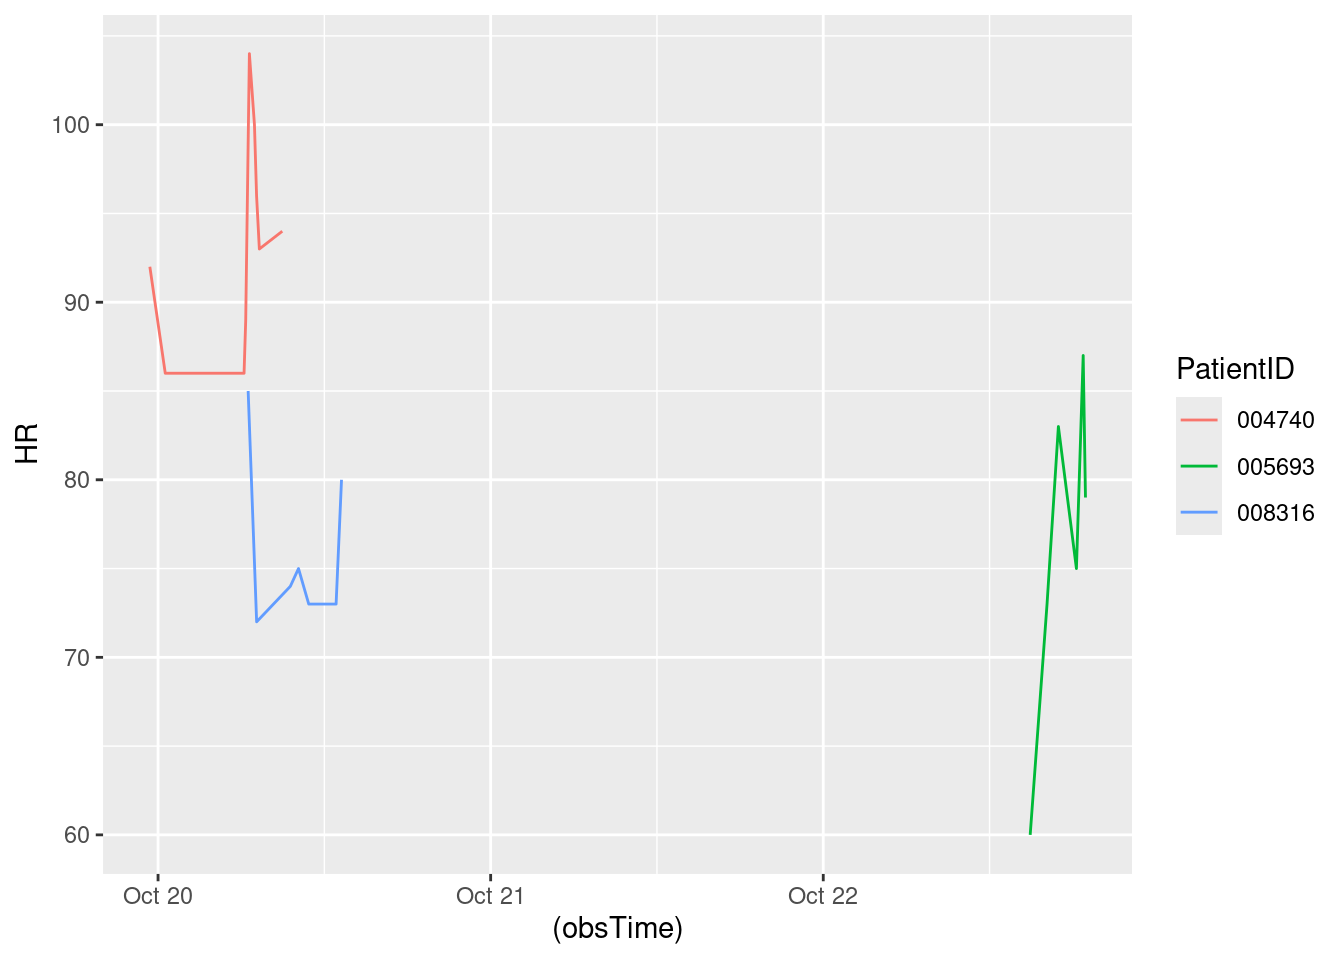
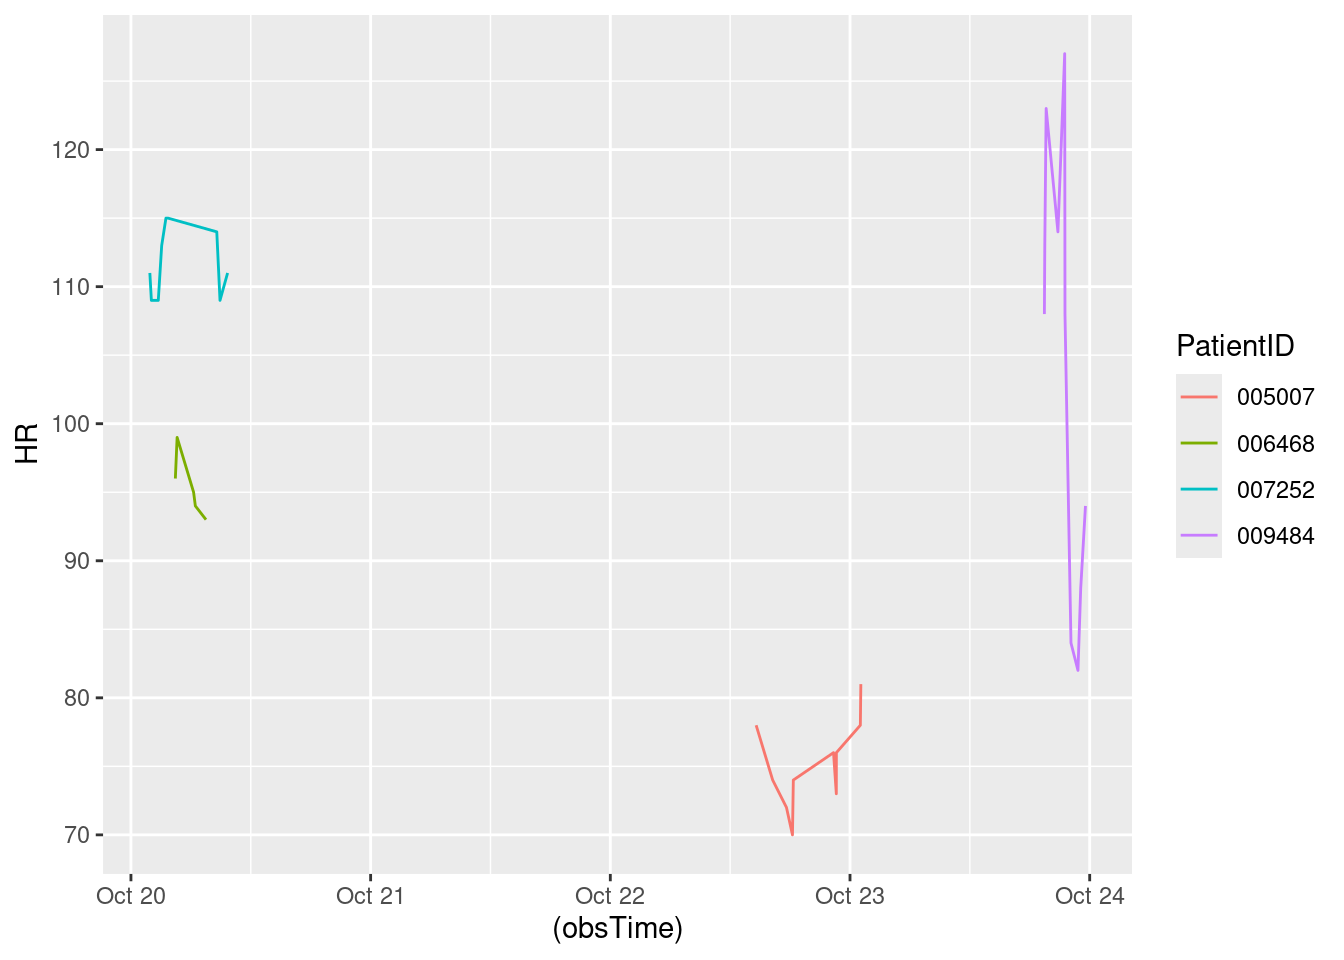
Updated report

diff --git a/HW7.html b/HW7.html
@@ -152,7 +152,7 @@ The following object is masked from 'package:purrr':
 </div>
 <div class="sourceCode cell-code" id="cb8"><pre class="sourceCode r code-with-copy"><code class="sourceCode r"><span id="cb8-1"><a href="#cb8-1" aria-hidden="true" tabindex="-1"></a><span class="fu">toc</span>()</span></code><button title="Copy to Clipboard" class="code-copy-button"><i class="bi"></i></button></pre></div>
 <div class="cell-output cell-output-stdout">
-<pre><code>15.487 sec elapsed</code></pre>
+<pre><code>15.66 sec elapsed</code></pre>
 </div>
 <div class="sourceCode cell-code" id="cb10"><pre class="sourceCode r code-with-copy"><code class="sourceCode r"><span id="cb10-1"><a href="#cb10-1" aria-hidden="true" tabindex="-1"></a><span class="fu">tic</span>()</span>
 <span id="cb10-2"><a href="#cb10-2" aria-hidden="true" tabindex="-1"></a>test1<span class="ot">=</span><span class="fu">makeSepsisDataset</span>(<span class="at">n=</span><span class="dv">50</span>,<span class="at">read_fn =</span> <span class="st">"read_delim"</span>)</span>
@@ -162,7 +162,7 @@ The following object is masked from 'package:purrr':
 </div>
 <div class="sourceCode cell-code" id="cb12"><pre class="sourceCode r code-with-copy"><code class="sourceCode r"><span id="cb12-1"><a href="#cb12-1" aria-hidden="true" tabindex="-1"></a><span class="fu">toc</span>()</span></code><button title="Copy to Clipboard" class="code-copy-button"><i class="bi"></i></button></pre></div>
 <div class="cell-output cell-output-stdout">
-<pre><code>10.215 sec elapsed</code></pre>
+<pre><code>11.62 sec elapsed</code></pre>
 </div>
 <div class="sourceCode cell-code" id="cb14"><pre class="sourceCode r code-with-copy"><code class="sourceCode r"><span id="cb14-1"><a href="#cb14-1" aria-hidden="true" tabindex="-1"></a><span class="fu">tic</span>()</span>
 <span id="cb14-2"><a href="#cb14-2" aria-hidden="true" tabindex="-1"></a>test1<span class="ot">=</span><span class="fu">makeSepsisDataset</span>(<span class="at">n=</span><span class="dv">100</span>,<span class="at">read_fn =</span> <span class="st">"fread"</span>)</span>
@@ -172,7 +172,7 @@ The following object is masked from 'package:purrr':
 </div>
 <div class="sourceCode cell-code" id="cb16"><pre class="sourceCode r code-with-copy"><code class="sourceCode r"><span id="cb16-1"><a href="#cb16-1" aria-hidden="true" tabindex="-1"></a><span class="fu">toc</span>()</span></code><button title="Copy to Clipboard" class="code-copy-button"><i class="bi"></i></button></pre></div>
 <div class="cell-output cell-output-stdout">
-<pre><code>17.342 sec elapsed</code></pre>
+<pre><code>27.216 sec elapsed</code></pre>
 </div>
 <div class="sourceCode cell-code" id="cb18"><pre class="sourceCode r code-with-copy"><code class="sourceCode r"><span id="cb18-1"><a href="#cb18-1" aria-hidden="true" tabindex="-1"></a><span class="fu">tic</span>()</span>
 <span id="cb18-2"><a href="#cb18-2" aria-hidden="true" tabindex="-1"></a>test1<span class="ot">=</span><span class="fu">makeSepsisDataset</span>(<span class="at">n=</span><span class="dv">100</span>,<span class="at">read_fn =</span> <span class="st">"read_delim"</span>)</span>
@@ -182,7 +182,7 @@ The following object is masked from 'package:purrr':
 </div>
 <div class="sourceCode cell-code" id="cb20"><pre class="sourceCode r code-with-copy"><code class="sourceCode r"><span id="cb20-1"><a href="#cb20-1" aria-hidden="true" tabindex="-1"></a><span class="fu">toc</span>()</span></code><button title="Copy to Clipboard" class="code-copy-button"><i class="bi"></i></button></pre></div>
 <div class="cell-output cell-output-stdout">
-<pre><code>18.66 sec elapsed</code></pre>
+<pre><code>22.601 sec elapsed</code></pre>
 </div>
 <div class="sourceCode cell-code" id="cb22"><pre class="sourceCode r code-with-copy"><code class="sourceCode r"><span id="cb22-1"><a href="#cb22-1" aria-hidden="true" tabindex="-1"></a><span class="fu">tic</span>()</span>
 <span id="cb22-2"><a href="#cb22-2" aria-hidden="true" tabindex="-1"></a>test1<span class="ot">=</span><span class="fu">makeSepsisDataset</span>(<span class="at">n=</span><span class="dv">500</span>,<span class="at">read_fn =</span> <span class="st">"fread"</span>)</span>
@@ -192,7 +192,7 @@ The following object is masked from 'package:purrr':
 </div>
 <div class="sourceCode cell-code" id="cb24"><pre class="sourceCode r code-with-copy"><code class="sourceCode r"><span id="cb24-1"><a href="#cb24-1" aria-hidden="true" tabindex="-1"></a><span class="fu">toc</span>()</span></code><button title="Copy to Clipboard" class="code-copy-button"><i class="bi"></i></button></pre></div>
 <div class="cell-output cell-output-stdout">
-<pre><code>85.364 sec elapsed</code></pre>
+<pre><code>134.91 sec elapsed</code></pre>
 </div>
 <div class="sourceCode cell-code" id="cb26"><pre class="sourceCode r code-with-copy"><code class="sourceCode r"><span id="cb26-1"><a href="#cb26-1" aria-hidden="true" tabindex="-1"></a><span class="fu">tic</span>()</span>
 <span id="cb26-2"><a href="#cb26-2" aria-hidden="true" tabindex="-1"></a>test1<span class="ot">=</span><span class="fu">makeSepsisDataset</span>(<span class="at">n=</span><span class="dv">500</span>,<span class="at">read_fn =</span> <span class="st">"read_delim"</span>)</span>
@@ -202,7 +202,7 @@ The following object is masked from 'package:purrr':
 </div>
 <div class="sourceCode cell-code" id="cb28"><pre class="sourceCode r code-with-copy"><code class="sourceCode r"><span id="cb28-1"><a href="#cb28-1" aria-hidden="true" tabindex="-1"></a><span class="fu">toc</span>()</span></code><button title="Copy to Clipboard" class="code-copy-button"><i class="bi"></i></button></pre></div>
 <div class="cell-output cell-output-stdout">
-<pre><code>94.132 sec elapsed</code></pre>
+<pre><code>112.686 sec elapsed</code></pre>
 </div>
 </div>
 <p>Problem 3: Speed reading</p>
@@ -244,7 +244,7 @@ dttm (1): obsTime
 <div class="sourceCode cell-code" id="cb35"><pre class="sourceCode r code-with-copy"><code class="sourceCode r"><span id="cb35-1"><a href="#cb35-1" aria-hidden="true" tabindex="-1"></a><span class="co">#Sys.Date()</span></span>
 <span id="cb35-2"><a href="#cb35-2" aria-hidden="true" tabindex="-1"></a><span class="fu">Sys.time</span>()</span></code><button title="Copy to Clipboard" class="code-copy-button"><i class="bi"></i></button></pre></div>
 <div class="cell-output cell-output-stdout">
-<pre><code>[1] "2024-10-19 23:24:17 UTC"</code></pre>
+<pre><code>[1] "2024-10-20 01:53:36 UTC"</code></pre>
 </div>
 <div class="sourceCode cell-code" id="cb37"><pre class="sourceCode r code-with-copy"><code class="sourceCode r"><span id="cb37-1"><a href="#cb37-1" aria-hidden="true" tabindex="-1"></a>dfnew<span class="ot">=</span>df <span class="sc">%&gt;%</span><span class="fu">subset</span>(SepsisLabel<span class="sc">==</span><span class="dv">1</span>)</span>
 <span id="cb37-2"><a href="#cb37-2" aria-hidden="true" tabindex="-1"></a></span>
@@ -259,18 +259,23 @@ dttm (1): obsTime
 <span id="cb37-11"><a href="#cb37-11" aria-hidden="true" tabindex="-1"></a></span>
 <span id="cb37-12"><a href="#cb37-12" aria-hidden="true" tabindex="-1"></a><span class="fu">print</span>(res)</span></code><button title="Copy to Clipboard" class="code-copy-button"><i class="bi"></i></button></pre></div>
 <div class="cell-output cell-output-stdout">
-<pre><code># A tibble: 3 × 7
-# Groups:   PatientID [3]
+<pre><code># A tibble: 4 × 7
+# Groups:   PatientID [4]
   PatientID ICULOS    HR  Temp  Resp SepsisLabel obsTime            
   &lt;chr&gt;      &lt;int&gt; &lt;int&gt; &lt;dbl&gt; &lt;int&gt;       &lt;int&gt; &lt;dttm&gt;             
-1 004740        10    94    NA    12           1 2024-10-20 08:57:48
-2 005693        68    79    NA    20           1 2024-10-22 18:55:15
-3 008316        14    80    NA    13           1 2024-10-20 13:14:18</code></pre>
+1 005007        72    81    NA    23           1 2024-10-23 01:05:06
+2 006468         7    93    NA    19           1 2024-10-20 07:30:53
+3 007252         9   111    NA    21           1 2024-10-20 09:40:44
+4 009484        94    94    NA    24           1 2024-10-23 23:34:36</code></pre>
 </div>
 </div>
 <div class="cell">
 <div class="sourceCode cell-code" id="cb39"><pre class="sourceCode r code-with-copy"><code class="sourceCode r"><span id="cb39-1"><a href="#cb39-1" aria-hidden="true" tabindex="-1"></a>dfnew <span class="sc">%&gt;%</span></span>
 <span id="cb39-2"><a href="#cb39-2" aria-hidden="true" tabindex="-1"></a>  <span class="fu">ggplot</span>()<span class="sc">+</span><span class="fu">geom_line</span>(<span class="fu">aes</span>(<span class="at">y=</span>HR,<span class="at">x=</span>(obsTime),<span class="at">color=</span>PatientID))</span></code><button title="Copy to Clipboard" class="code-copy-button"><i class="bi"></i></button></pre></div>
+<div class="cell-output cell-output-stderr">
+<pre><code>Warning: Removed 1 row containing missing values or values outside the scale range
+(`geom_line()`).</code></pre>
+</div>
 <div class="cell-output-display">
 <div>
 <figure class="figure">
@@ -283,7 +288,7 @@ dttm (1): obsTime
 <section id="display-the-most-recent-data" class="level2">
 <h2 class="anchored" data-anchor-id="display-the-most-recent-data">Display the most recent data</h2>
 <div class="cell">
-<div class="sourceCode cell-code" id="cb40"><pre class="sourceCode r code-with-copy"><code class="sourceCode r"><span id="cb40-1"><a href="#cb40-1" aria-hidden="true" tabindex="-1"></a>most_recent_data</span></code><button title="Copy to Clipboard" class="code-copy-button"><i class="bi"></i></button></pre></div>
+<div class="sourceCode cell-code" id="cb41"><pre class="sourceCode r code-with-copy"><code class="sourceCode r"><span id="cb41-1"><a href="#cb41-1" aria-hidden="true" tabindex="-1"></a>most_recent_data</span></code><button title="Copy to Clipboard" class="code-copy-button"><i class="bi"></i></button></pre></div>
 <div class="cell-output cell-output-stdout">
 <pre><code># A tibble: 50 × 7
 # Groups:   PatientID [50]
@@ -306,32 +311,32 @@ dttm (1): obsTime
 <section id="calculate-the-difference" class="level2">
 <h2 class="anchored" data-anchor-id="calculate-the-difference">Calculate the difference</h2>
 <div class="cell">
-<div class="sourceCode cell-code" id="cb42"><pre class="sourceCode r code-with-copy"><code class="sourceCode r"><span id="cb42-1"><a href="#cb42-1" aria-hidden="true" tabindex="-1"></a><span class="fu">library</span>(dplyr)</span>
-<span id="cb42-2"><a href="#cb42-2" aria-hidden="true" tabindex="-1"></a><span class="fu">library</span>(tidyr)</span>
-<span id="cb42-3"><a href="#cb42-3" aria-hidden="true" tabindex="-1"></a><span class="fu">library</span>(knitr)</span>
-<span id="cb42-4"><a href="#cb42-4" aria-hidden="true" tabindex="-1"></a>get_observation_data <span class="ot">&lt;-</span> <span class="cf">function</span>(data, n, column_suffix) {</span>
-<span id="cb42-5"><a href="#cb42-5" aria-hidden="true" tabindex="-1"></a>  data <span class="sc">%&gt;%</span></span>
-<span id="cb42-6"><a href="#cb42-6" aria-hidden="true" tabindex="-1"></a>    <span class="fu">group_by</span>(PatientID) <span class="sc">%&gt;%</span></span>
-<span id="cb42-7"><a href="#cb42-7" aria-hidden="true" tabindex="-1"></a>    <span class="fu">slice_max</span>(<span class="at">order_by =</span> obsTime, <span class="at">n =</span> n) <span class="sc">%&gt;%</span></span>
-<span id="cb42-8"><a href="#cb42-8" aria-hidden="true" tabindex="-1"></a>    <span class="fu">select</span>(<span class="sc">-</span><span class="fu">c</span>(ICULOS, SepsisLabel, obsTime)) <span class="sc">%&gt;%</span></span>
-<span id="cb42-9"><a href="#cb42-9" aria-hidden="true" tabindex="-1"></a>    <span class="fu">rename_at</span>(<span class="fu">vars</span>(HR, Temp, Resp),</span>
-<span id="cb42-10"><a href="#cb42-10" aria-hidden="true" tabindex="-1"></a>              <span class="fu">list</span>(<span class="sc">~</span><span class="fu">paste0</span>(., <span class="st">"_"</span>, column_suffix)))</span>
-<span id="cb42-11"><a href="#cb42-11" aria-hidden="true" tabindex="-1"></a>}</span>
-<span id="cb42-12"><a href="#cb42-12" aria-hidden="true" tabindex="-1"></a></span>
-<span id="cb42-13"><a href="#cb42-13" aria-hidden="true" tabindex="-1"></a></span>
-<span id="cb42-14"><a href="#cb42-14" aria-hidden="true" tabindex="-1"></a></span>
-<span id="cb42-15"><a href="#cb42-15" aria-hidden="true" tabindex="-1"></a></span>
-<span id="cb42-16"><a href="#cb42-16" aria-hidden="true" tabindex="-1"></a>last_obs <span class="ot">&lt;-</span> <span class="fu">get_observation_data</span>(new_data, <span class="dv">1</span>, <span class="st">"last"</span>)</span>
-<span id="cb42-17"><a href="#cb42-17" aria-hidden="true" tabindex="-1"></a>penultimate_obs <span class="ot">&lt;-</span> <span class="fu">get_observation_data</span>(new_data, <span class="dv">2</span>, <span class="st">"penult"</span>)</span>
-<span id="cb42-18"><a href="#cb42-18" aria-hidden="true" tabindex="-1"></a>joined_data <span class="ot">&lt;-</span> <span class="fu">full_join</span>(last_obs, penultimate_obs) <span class="sc">%&gt;%</span></span>
-<span id="cb42-19"><a href="#cb42-19" aria-hidden="true" tabindex="-1"></a>  <span class="fu">transmute</span>(PatientID,</span>
-<span id="cb42-20"><a href="#cb42-20" aria-hidden="true" tabindex="-1"></a>            <span class="st">`</span><span class="at">Temperature change</span><span class="st">`</span> <span class="ot">=</span> Temp_last <span class="sc">-</span> Temp_penult,</span>
-<span id="cb42-21"><a href="#cb42-21" aria-hidden="true" tabindex="-1"></a>            <span class="st">`</span><span class="at">Heart rate change</span><span class="st">`</span> <span class="ot">=</span> HR_last <span class="sc">-</span> HR_penult,</span>
-<span id="cb42-22"><a href="#cb42-22" aria-hidden="true" tabindex="-1"></a>            <span class="st">`</span><span class="at">Respiratory rate change</span><span class="st">`</span> <span class="ot">=</span> Resp_last <span class="sc">-</span> Resp_penult)</span></code><button title="Copy to Clipboard" class="code-copy-button"><i class="bi"></i></button></pre></div>
+<div class="sourceCode cell-code" id="cb43"><pre class="sourceCode r code-with-copy"><code class="sourceCode r"><span id="cb43-1"><a href="#cb43-1" aria-hidden="true" tabindex="-1"></a><span class="fu">library</span>(dplyr)</span>
+<span id="cb43-2"><a href="#cb43-2" aria-hidden="true" tabindex="-1"></a><span class="fu">library</span>(tidyr)</span>
+<span id="cb43-3"><a href="#cb43-3" aria-hidden="true" tabindex="-1"></a><span class="fu">library</span>(knitr)</span>
+<span id="cb43-4"><a href="#cb43-4" aria-hidden="true" tabindex="-1"></a>get_observation_data <span class="ot">&lt;-</span> <span class="cf">function</span>(data, n, column_suffix) {</span>
+<span id="cb43-5"><a href="#cb43-5" aria-hidden="true" tabindex="-1"></a>  data <span class="sc">%&gt;%</span></span>
+<span id="cb43-6"><a href="#cb43-6" aria-hidden="true" tabindex="-1"></a>    <span class="fu">group_by</span>(PatientID) <span class="sc">%&gt;%</span></span>
+<span id="cb43-7"><a href="#cb43-7" aria-hidden="true" tabindex="-1"></a>    <span class="fu">slice_max</span>(<span class="at">order_by =</span> obsTime, <span class="at">n =</span> n) <span class="sc">%&gt;%</span></span>
+<span id="cb43-8"><a href="#cb43-8" aria-hidden="true" tabindex="-1"></a>    <span class="fu">select</span>(<span class="sc">-</span><span class="fu">c</span>(ICULOS, SepsisLabel, obsTime)) <span class="sc">%&gt;%</span></span>
+<span id="cb43-9"><a href="#cb43-9" aria-hidden="true" tabindex="-1"></a>    <span class="fu">rename_at</span>(<span class="fu">vars</span>(HR, Temp, Resp),</span>
+<span id="cb43-10"><a href="#cb43-10" aria-hidden="true" tabindex="-1"></a>              <span class="fu">list</span>(<span class="sc">~</span><span class="fu">paste0</span>(., <span class="st">"_"</span>, column_suffix)))</span>
+<span id="cb43-11"><a href="#cb43-11" aria-hidden="true" tabindex="-1"></a>}</span>
+<span id="cb43-12"><a href="#cb43-12" aria-hidden="true" tabindex="-1"></a></span>
+<span id="cb43-13"><a href="#cb43-13" aria-hidden="true" tabindex="-1"></a></span>
+<span id="cb43-14"><a href="#cb43-14" aria-hidden="true" tabindex="-1"></a></span>
+<span id="cb43-15"><a href="#cb43-15" aria-hidden="true" tabindex="-1"></a></span>
+<span id="cb43-16"><a href="#cb43-16" aria-hidden="true" tabindex="-1"></a>last_obs <span class="ot">&lt;-</span> <span class="fu">get_observation_data</span>(new_data, <span class="dv">1</span>, <span class="st">"last"</span>)</span>
+<span id="cb43-17"><a href="#cb43-17" aria-hidden="true" tabindex="-1"></a>penultimate_obs <span class="ot">&lt;-</span> <span class="fu">get_observation_data</span>(new_data, <span class="dv">2</span>, <span class="st">"penult"</span>)</span>
+<span id="cb43-18"><a href="#cb43-18" aria-hidden="true" tabindex="-1"></a>joined_data <span class="ot">&lt;-</span> <span class="fu">full_join</span>(last_obs, penultimate_obs) <span class="sc">%&gt;%</span></span>
+<span id="cb43-19"><a href="#cb43-19" aria-hidden="true" tabindex="-1"></a>  <span class="fu">transmute</span>(PatientID,</span>
+<span id="cb43-20"><a href="#cb43-20" aria-hidden="true" tabindex="-1"></a>            <span class="st">`</span><span class="at">Temperature change</span><span class="st">`</span> <span class="ot">=</span> Temp_last <span class="sc">-</span> Temp_penult,</span>
+<span id="cb43-21"><a href="#cb43-21" aria-hidden="true" tabindex="-1"></a>            <span class="st">`</span><span class="at">Heart rate change</span><span class="st">`</span> <span class="ot">=</span> HR_last <span class="sc">-</span> HR_penult,</span>
+<span id="cb43-22"><a href="#cb43-22" aria-hidden="true" tabindex="-1"></a>            <span class="st">`</span><span class="at">Respiratory rate change</span><span class="st">`</span> <span class="ot">=</span> Resp_last <span class="sc">-</span> Resp_penult)</span></code><button title="Copy to Clipboard" class="code-copy-button"><i class="bi"></i></button></pre></div>
 <div class="cell-output cell-output-stderr">
 <pre><code>Joining with `by = join_by(PatientID)`</code></pre>
 </div>
-<div class="sourceCode cell-code" id="cb44"><pre class="sourceCode r code-with-copy"><code class="sourceCode r"><span id="cb44-1"><a href="#cb44-1" aria-hidden="true" tabindex="-1"></a><span class="fu">kable</span>(joined_data, <span class="at">caption =</span> <span class="st">"Patients' Recent Changes in Vital Stats"</span>)</span></code><button title="Copy to Clipboard" class="code-copy-button"><i class="bi"></i></button></pre></div>
+<div class="sourceCode cell-code" id="cb45"><pre class="sourceCode r code-with-copy"><code class="sourceCode r"><span id="cb45-1"><a href="#cb45-1" aria-hidden="true" tabindex="-1"></a><span class="fu">kable</span>(joined_data, <span class="at">caption =</span> <span class="st">"Patients' Recent Changes in Vital Stats"</span>)</span></code><button title="Copy to Clipboard" class="code-copy-button"><i class="bi"></i></button></pre></div>
 <div class="cell-output-display">
 <table class="caption-top table table-sm table-striped small">
 <caption>Patients’ Recent Changes in Vital Stats</caption>
